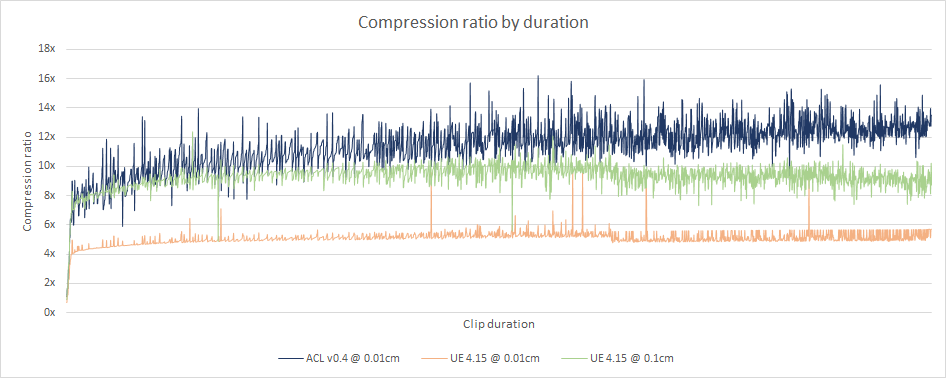
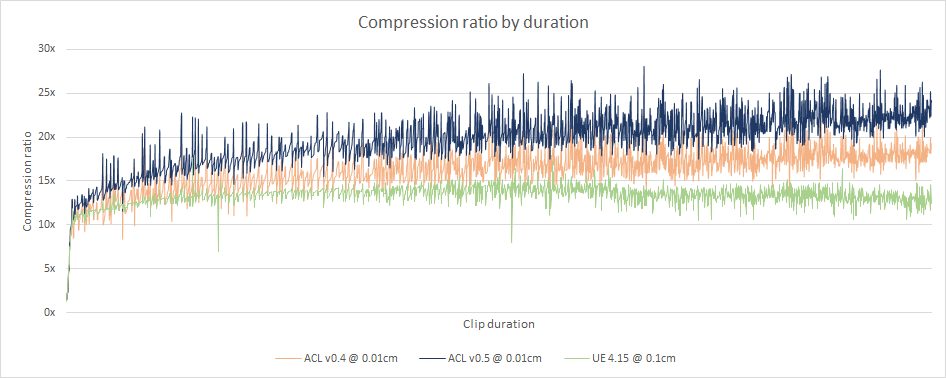
Updating images for v0.5 and adding two new ones.

diff --git a/docs/acl_vs_ue4_vs_unity.md b/docs/acl_vs_ue4_vs_unity.md
@@ -84,3 +84,7 @@ Sadly I have not yet managed to find a way to implement a custom error metric in
 
 ![Distribution of the error for every bone at every key frame](images/acl_exhaustive_error.png)
 ![Distribution of the error for every bone at every key frame (top 10%)](images/acl_exhaustive_error_top_10.png)
+
+![Distribution of clip durations](images/acl_clip_durations.png)
+
+![Distribution of selected bit rates](images/acl_bit_rates.png)
